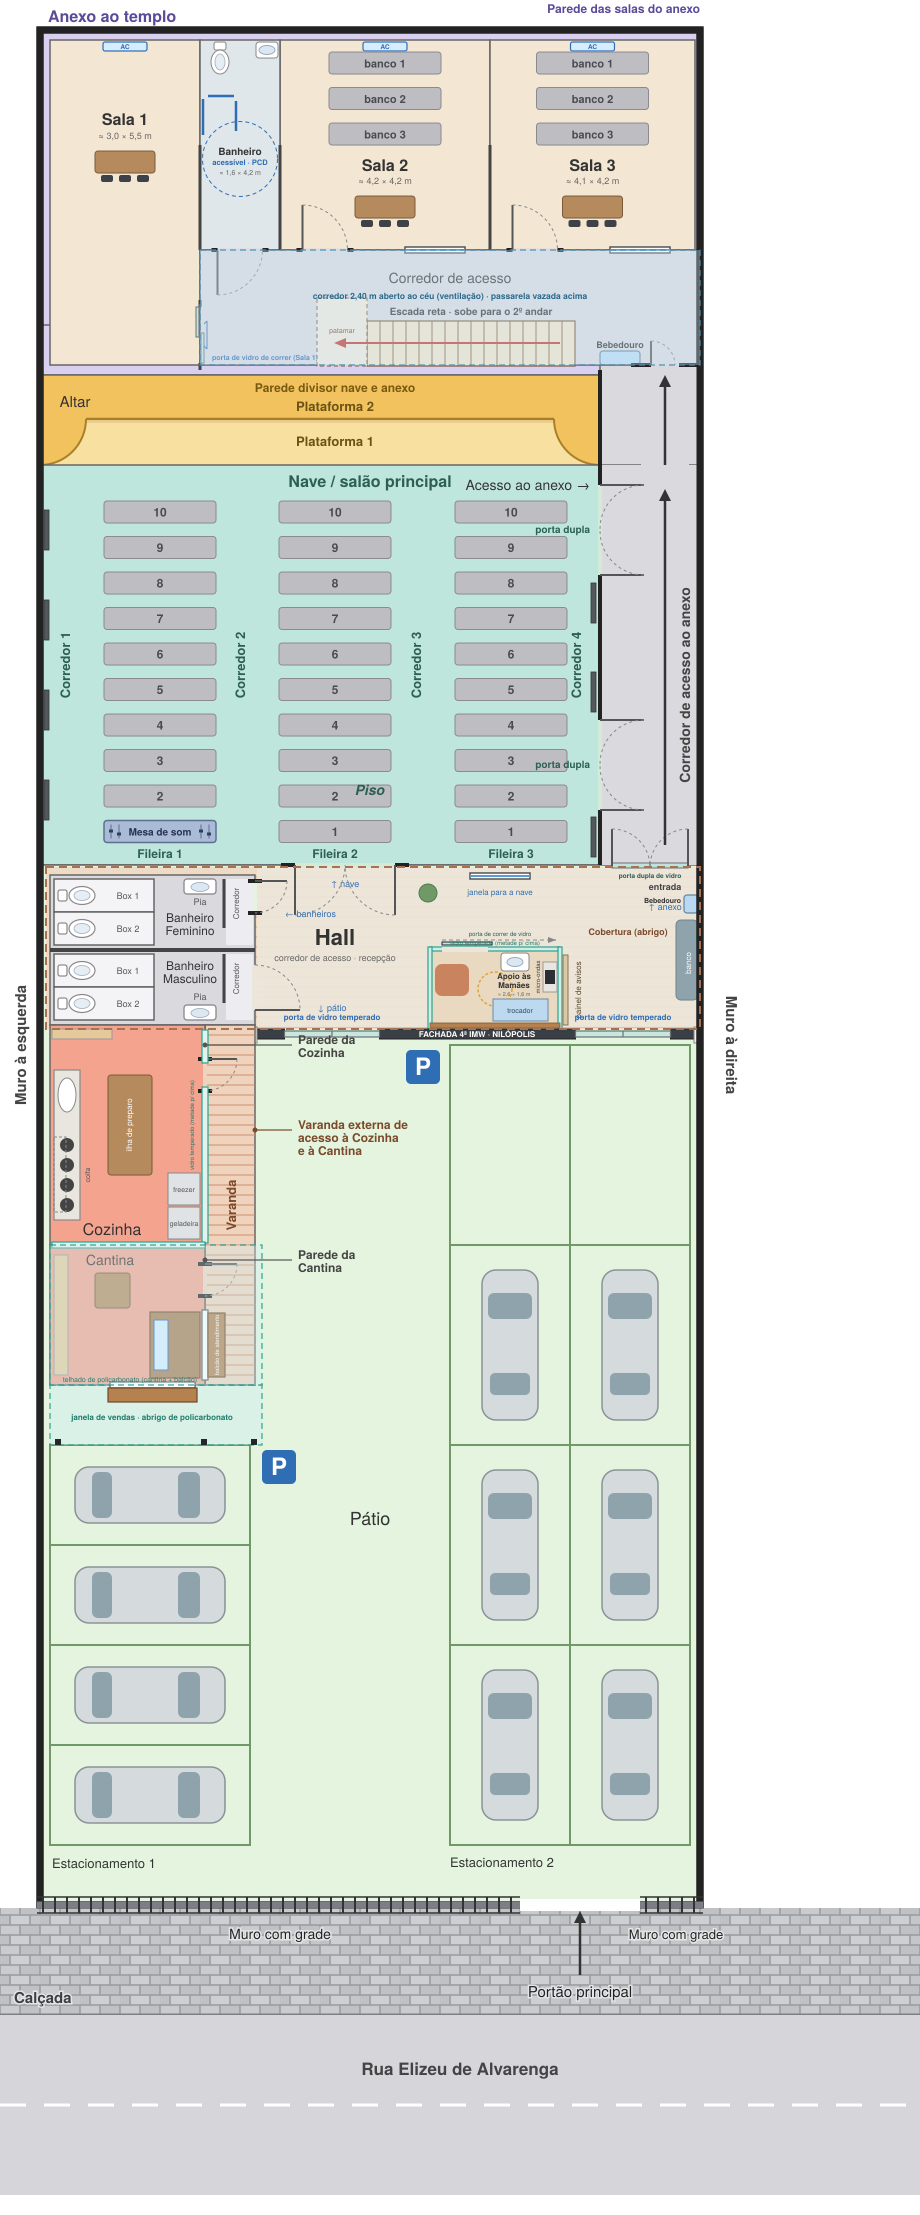
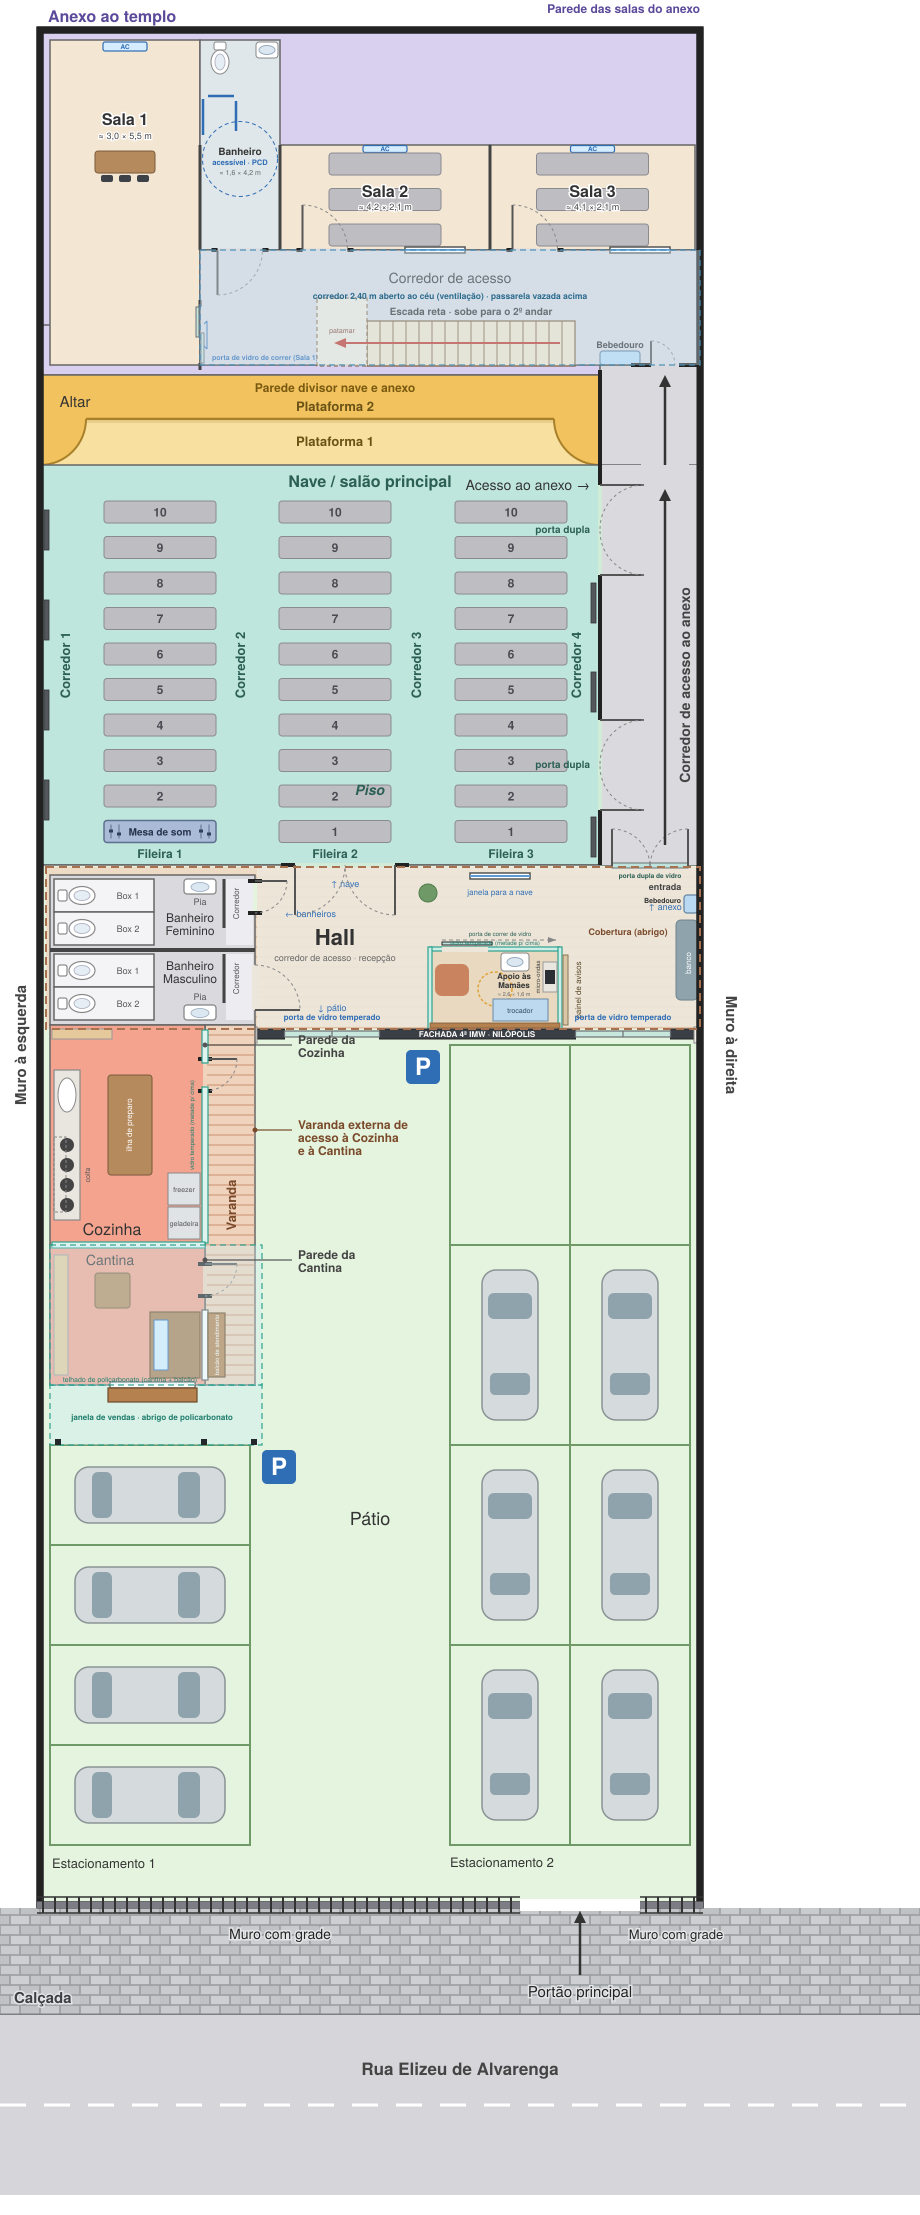
Maquete 3 (Etapa 80): salas 2 e 3 do anexo (térreo) sem mesa e cadeiras, com a medida de 3 bancos
Claude-Session: https://claude.ai/code/session_015gh4tS64wXyJ2ghbw66cFX

Changed region(s): [[0.3043, 0.0, 0.7609, 0.1246], [0.1217, 0.0312, 0.1522, 0.0623]]

diff --git a/projeto3/maquete.html b/projeto3/maquete.html
@@ -748,9 +748,10 @@
     function acBox(x, y, z){ box(0.95, 0.28, 0.2, 0xf4f4f2, x, y, z); box(0.8, 0.025, 0.02, 0x9aa0a6, x, y - 0.09, z + 0.105, null, { cast: false }); }
     [125, 385, 592].forEach(function(cx){
       acBox(X(cx), 2.45, Z(40) + 0.11 + 0.1);                                                   // split na parede do fundo
+      box(1.5, 0.85, 0.04, 0x16191c, X(cx), 1.5, Z(40) + 0.11 + 0.02);                          // tela
+      if (cx !== 125) return;                                                                      // Etapa 80: Salas 2 e 3 sem mesa e sem cadeiras (os 3 bancos são a medida da sala)
       box(1.3, 0.05, 0.55, 0xb58a5c, X(cx), 0.76, Z(115)); [-0.55, 0.55].forEach(function(o){ box(0.05, 0.72, 0.5, 0xdad7d0, X(cx) + o, 0.4, Z(115)); });
       [-0.4, 0, 0.4].forEach(function(o){ box(0.4, 0.04, 0.4, 0x3d4249, X(cx) + o, 0.45, Z(135)); box(0.4, 0.38, 0.04, 0x3d4249, X(cx) + o, 0.66, Z(135) + 0.19); box(0.06, 0.43, 0.06, 0x8a8f94, X(cx) + o, 0.22, Z(135)); });
-      box(1.5, 0.85, 0.04, 0x16191c, X(cx), 1.5, Z(40) + 0.11 + 0.02);                          // tela
     });
     // banheiro acessível (PCD) do anexo (x200..280, y50..155 ≈ 1,6 × 2,1 m): vaso, barras de apoio, lavatório
     var bar = 0xc9ced3;
@@ -1671,25 +1672,26 @@
         var bb = new THREE.Box3().setFromObject(o); if (bb.isEmpty()) return;
         var cx = (bb.min.x + bb.max.x) / 2, cz = (bb.min.z + bb.max.z) / 2, L = bb.max.z - bb.min.z;
         if (!inX(cx) || cz < zb - 0.45 || cz > zf + 0.05 || bb.min.y > 7.5) return;
+        if (bb.max.y < BH + 0.05 && cx > X(285) && cx < X(690) && L < 4.5) return;   // Etapa 80: tudo do térreo das Salas 2 e 3 (paredes, piso, forro, janelas, luzes) fica no tamanho de 3 bancos (≈ 2,1 m de fundo)
         var box = o.isMesh && o.geometry && o.geometry.type === 'BoxGeometry' && !o.rotation.x && !o.rotation.y && !o.rotation.z;
         if (box && L >= 1.9){                                              // paredes divisórias, pisos, lajes, forros: esticam para trás
           var z0 = f(bb.min.z), z1 = f(bb.max.z); o.scale.z *= (z1 - z0) / L; o.position.z = (z0 + z1) / 2; return;
         }
         if (Math.abs(cx - xW[0]) < 0.2 || Math.abs(cx - xW[1]) < 0.2) return;   // paredes externas e janelas laterais ficam
-        if (cz >= zb + 0.3 && bb.max.y < 2.2 && cx > X(285) && cx < X(690)) return;   // Etapa 79: mobília (mesa, cadeiras, pessoas) das Salas 2 e 3 do térreo fica onde estava; os 2,10 m novos ficam livres atrás dela
         o.position.z += (cz < zb + 0.3 ? -D : f(cz) - cz);                   // fundos: recuam; móveis e peças: acompanham proporcionalmente
       });
     });
+    box(X(700) - X(280), BH, 0.22, C.wall, (X(280) + X(700)) / 2, BH / 2, zb - D, root);   // Etapa 80: parede dos fundos do térreo, fechando o espaço atrás das Salas 2 e 3
     xW.forEach(function(xw){                                               // paredes externas laterais prolongadas (térreo e 2º andar)
       box(0.22, BH, D, C.wall, xw, BH / 2, zb - D / 2, root);
       box(0.22, 2.9, D, C.wall, xw, BH + 0.16 + 1.45, zb - D / 2, root);
     });
-    views.forEach(function(v){ if (v.tgt[2] > zb - 0.4 && v.tgt[2] < zf && v.pos[2] > zb - 0.4 && v.pos[2] < zb + 6 && inX(v.tgt[0])) v.tgt[2] = f(v.tgt[2]); });
+    views.forEach(function(v){ if (v.tgt[2] > zb - 0.4 && v.tgt[2] < zf && v.pos[2] > zb - 0.4 && v.pos[2] < zb + 6 && inX(v.tgt[0]) && !(v.tgt[0] > X(285) && v.tgt[0] < X(690) && v.tgt[1] < 2.5)) v.tgt[2] = f(v.tgt[2]); });
     return { f: f };
   })();
   // ---------- MAQUETE 3 (Etapa 78): 3 bancos iguais aos da nave (mesmo tamanho, passo de 0,71 m) nas salas 2 e 3 do anexo (térreo), para conferir a nova profundidade ----------
   (function(){
-    var zIn = Z(-10) - 105 * S + 0.11;                                       // face interna da parede dos fundos das salas
+    var zIn = Z(-10) + 0.11;                                       // face interna da parede dos fundos das salas
     var estofado = mat(0x7b8189, { roughness: 0.95 });
     [385, 592.5].forEach(function(px){
       var cx = X(px);
